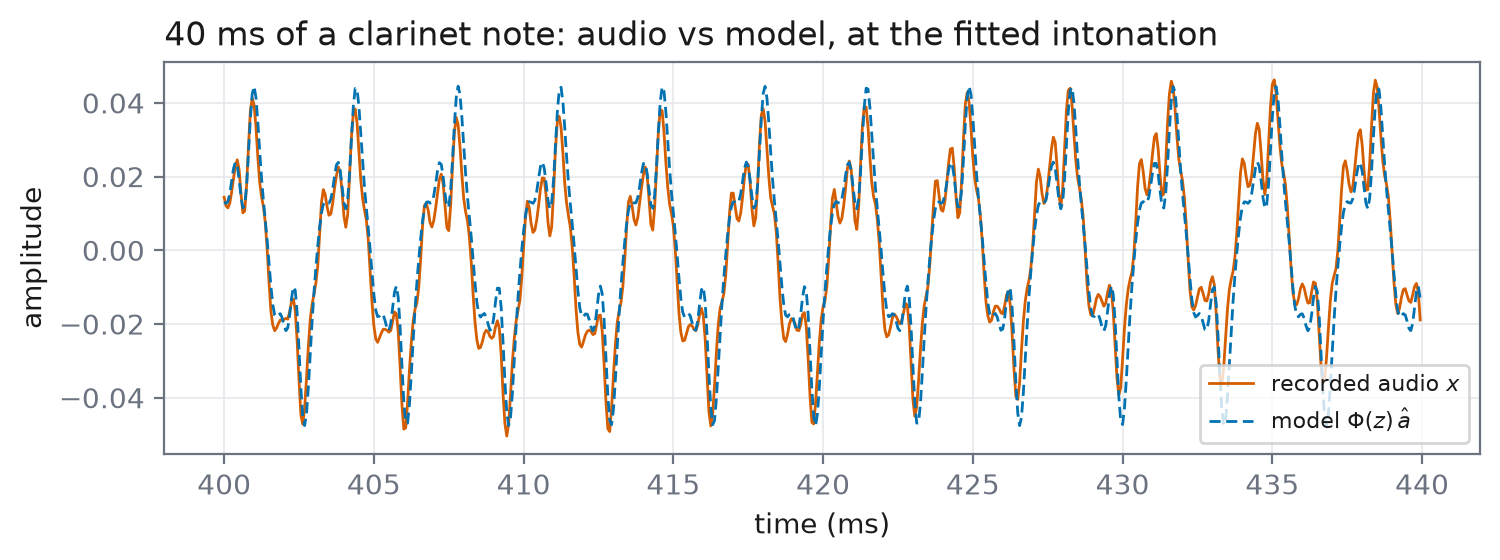
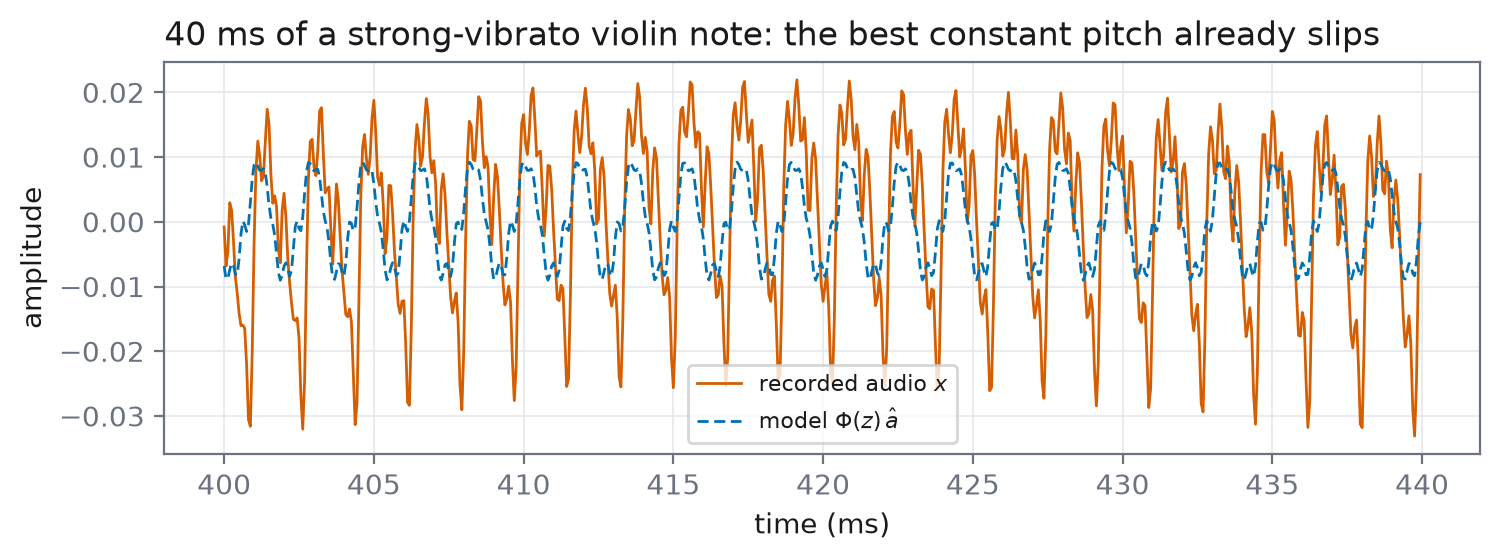
GT frames on the example-note figure; waveform slide shows an expressive note
Slide 25: ground-truth frames added to panel A for visual reference
(vermilion dots under the tracked frames and posterior); the
evaluation-only clarification dropped from the caption per Ray. Slide
30: the too-perfect clarinet replaced by a strong-vibrato violin note
(extent ~17 cents) where the best CONSTANT pitch visibly slips and
underfits within 40 ms -- honest, and it motivates the curve inference
two slides later; caption rewritten to carry that bridge. 34 slides.

diff --git a/scripts/make_waveform_viz.py b/scripts/make_waveform_viz.py
@@ -20,12 +20,22 @@ from eval_phase3_waveform_dev import (SR, chunked_design, f0_curve,
                                       fit_noise, loglik, selected)
 from score_bundle.phase2.urmp import read_notes_annotation
 
-# the clarinet note of the prototype figure
+# a strong-vibrato violin note (expressive, so a constant pitch slips)
+import numpy as _np
+best = None
 for key, d, tr in selected():
-    if d["instrument"] == "cl":
-        break
+    if d["instrument"] != "vn":
+        continue
+    for j in range(d["onset"].size):
+        if (d["ident"][j] and _np.isfinite(d["est"][j, 1])
+                and d["n_frames"][j] >= 80):
+            ext = float(_np.exp(d["est"][j, 1]))
+            if best is None or ext > best[0]:
+                best = (ext, j)
+    break
+i = best[1]
+print("violin note", i, "extent", round(best[0], 1), "cents")
 notes = read_notes_annotation(tr.notes)
-i = 96
 audio48, sr48 = sf.read(tr.audio)
 audio = resample_poly(np.asarray(audio48, float), SR, int(sr48))
 on = float(notes["onset"][i]); du = min(float(notes["duration"][i]), 2.0)
@@ -45,7 +55,7 @@ A.plot(t[w] * 1000, x[w], color=VERM, lw=1.0, label="recorded audio $x$")
 A.plot(t[w] * 1000, recon[w], color=BLUE, lw=1.0, ls=(0, (4, 2)),
        label="model $\\Phi(z)\\,\\hat a$")
 A.set_xlabel("time (ms)"); A.set_ylabel("amplitude")
-A.set_title("40 ms of a clarinet note: audio vs model, at the fitted intonation", loc="left")
+A.set_title("40 ms of a strong-vibrato violin note: the best constant pitch already slips", loc="left")
 A.legend(fontsize=8)
 fig.tight_layout()
 fig.savefig("docs/thesis/figures/waveform_viz.png", bbox_inches="tight")

diff --git a/docs/slides/deck_week.tex b/docs/slides/deck_week.tex
@@ -454,10 +454,9 @@
   \figslotw{example_note_posterior.png}{0.9}{example note}
   \vspace{-2mm}
   {\small\textcolor{muted}{One cello note, fit on the pYIN-tracked
-  frames (the pipeline's input; the ground-truth annotation is used only
-  for evaluation). A: the posterior over the curve. B: the same
-  posterior split into its components; the channel read-outs come from
-  this split.}}
+  frames; ground truth shown for reference. A: the posterior over the
+  curve. B: the same posterior split into its components; the channel
+  read-outs come from this split.}}
 \end{frame}
 
 % ---------------------------------------------------------------------
@@ -598,9 +597,9 @@
 \begin{frame}{One note: the model against the raw audio}
   \figslotw{waveform_viz.png}{0.95}{waveform fit}
   \vspace{-2mm}
-  {\small\textcolor{muted}{The harmonic model locks onto the recording
-  cycle for cycle once the intonation is right; a few cents off and the
-  match collapses, which is why audio is such a sharp observation.}}
+  {\small\textcolor{muted}{On an expressive note even the best
+  constant pitch slips within 40 ms and underfits the swell: the whole
+  curve is needed, which is where the next slides go.}}
 \end{frame}
 
 % ---------------------------------------------------------------------

diff --git a/scripts/make_sm_explainer.py b/scripts/make_sm_explainer.py
@@ -166,6 +166,14 @@ def main() -> None:
 
     # GP-only two-panel version for the zemi deck (no sine anywhere)
     fig, (axA, axB) = plt.subplots(1, 2, figsize=(9.8, 3.1))
+    from make_phase2_intro import note_curves as _nc
+    from eval_phase2_real import dev_unique_tracks as _dut
+    _data = pickle.load(open(".cache/urmp_targets_dev.pkl", "rb"))
+    _f0s = pickle.load(open(".cache/urmp_f0_dev.pkl", "rb"))
+    _tracks = {(p.index, t.number): t for p, t in _dut()}
+    _, _, ttg, xg = _nc(key, i, _data, _f0s, _tracks)
+    axA.plot(ttg, xg, ".", ms=3, color=VERM, alpha=0.8,
+             label="ground truth frames")
     axA.plot(tt, x, ".", ms=3, color=MUTED, label="tracked frames (pYIN)")
     axA.plot(tg, m_curve, color=BLUE, lw=1.6, label="posterior mean")
     axA.fill_between(tg, m_curve - 1.645 * np.sqrt(v_curve),
